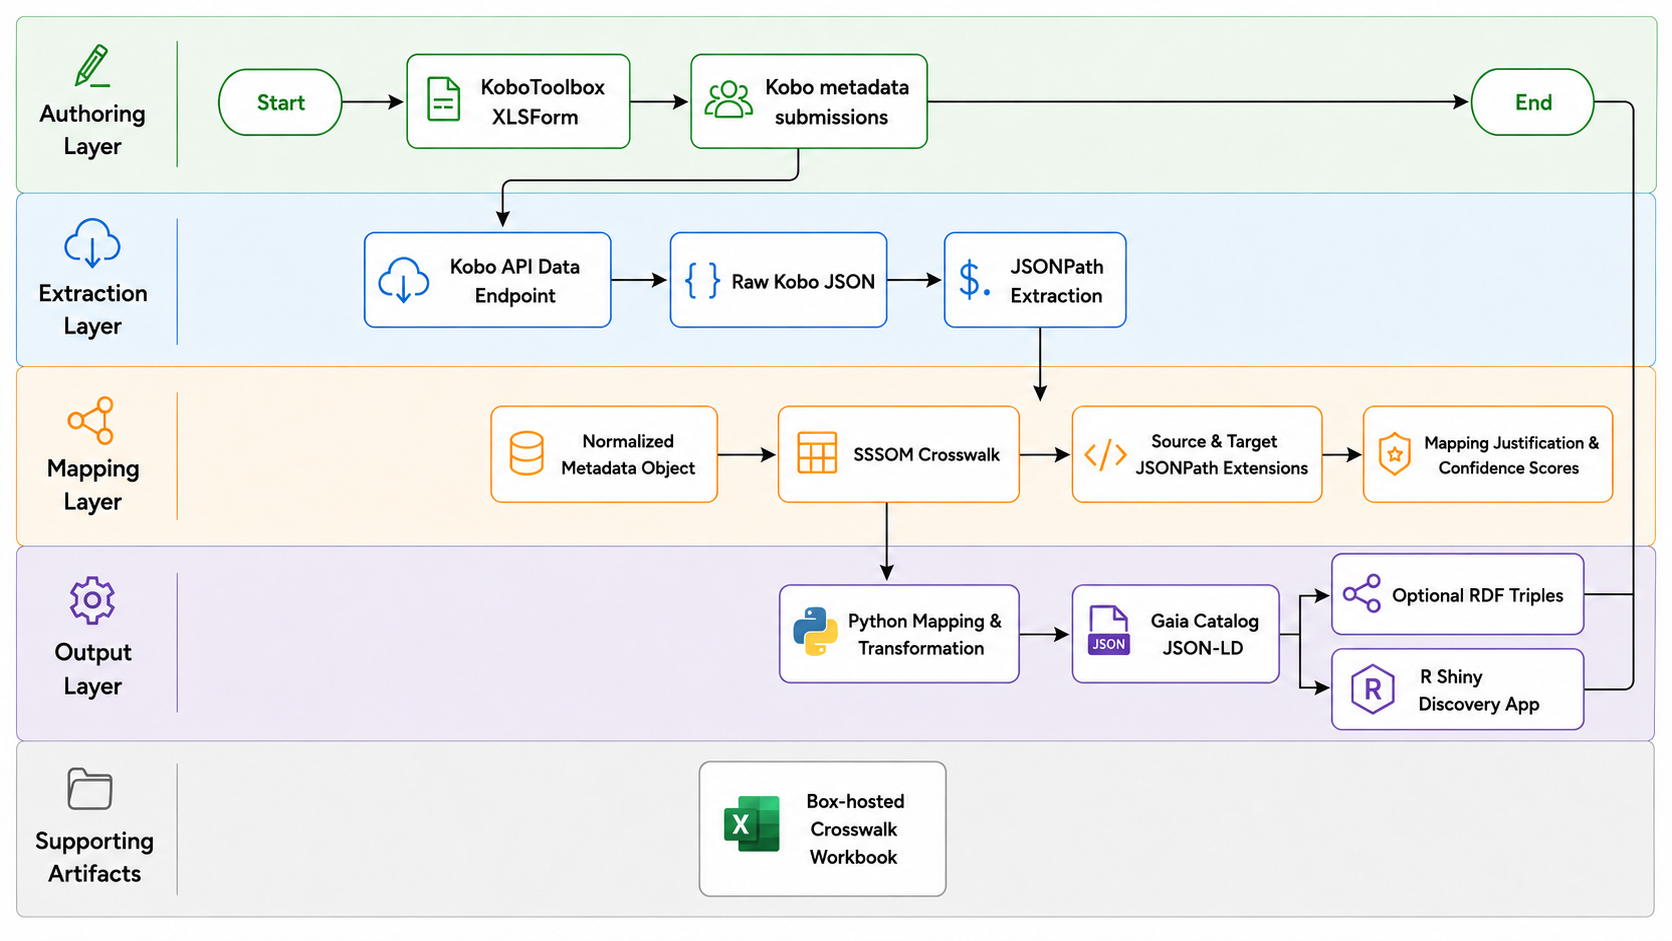
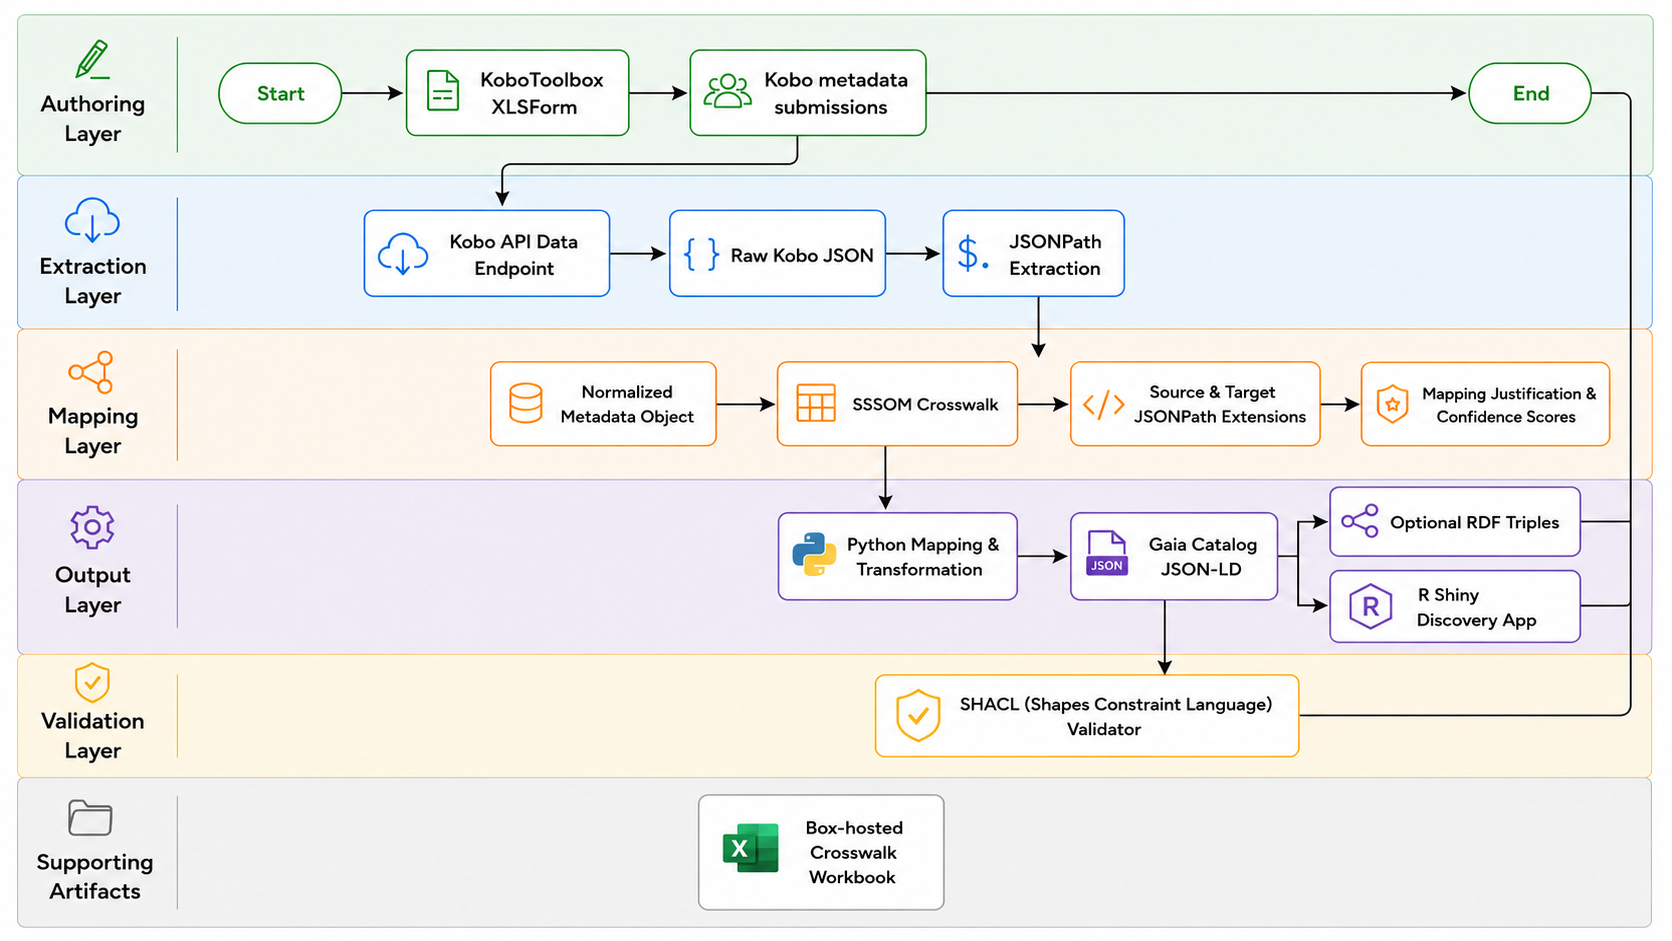
update to workflow

Changed region(s): [[0.0, 0.0, 0.9952, 0.9862]]

diff --git a/authoring/kobotoolbox/scripts/02_wrap_kobo_record.py b/authoring/kobotoolbox/scripts/02_wrap_kobo_record.py
@@ -1,23 +1,34 @@
-import json
 from pathlib import Path
+import json
 
-# Explicit paths on your machine
-RAW_FILE = Path("/Users/davidamadi/Documents/Projects/ohdsi-gis-metadata-template/authoring/kobotoolbox/scripts/kobo_output/record_136_raw.json")
-INPUT_FILE = Path("/Users/davidamadi/Documents/Projects/ohdsi-gis-metadata-template/authoring/kobotoolbox/scripts/record_136_input.json")
 
-print(f"Reading raw data from: {RAW_FILE}")
+def find_repo_root(start_path=None):
+    start_path = Path(start_path or Path.cwd()).resolve()
 
-# Read raw Kobo file
-with open(RAW_FILE, "r", encoding="utf-8") as f:
+    for path in [start_path, *start_path.parents]:
+        if (path / ".git").exists():
+            return path
+
+    raise RuntimeError("Could not find repo root.")
+
+
+REPO_ROOT = find_repo_root()
+KOBO_DIR = REPO_ROOT / "authoring" / "kobotoolbox"
+
+EXAMPLE_INPUT_DIR = KOBO_DIR / "examples" / "pm25_record_136" / "input"
+
+RAW_RECORD_FILE = EXAMPLE_INPUT_DIR / "record_136_raw.json"
+WRAPPED_RECORD_FILE = EXAMPLE_INPUT_DIR / "record_136_input.json"
+
+with open(RAW_RECORD_FILE, "r", encoding="utf-8") as f:
     raw_record = json.load(f)
 
-# Wrap it in the 'datasets' array format Doug's pipeline expects
-wrapped_data = {
+wrapped = {
     "datasets": [raw_record]
 }
 
-# Save it to the main scripts folder
-with open(INPUT_FILE, "w", encoding="utf-8") as f:
-    json.dump(wrapped_data, f, indent=2, ensure_ascii=False)
+with open(WRAPPED_RECORD_FILE, "w", encoding="utf-8") as f:
+    json.dump(wrapped, f, indent=2, ensure_ascii=False)
 
-print(f"Success! Created pipeline-ready file at: {INPUT_FILE}")
+print("Created wrapped input:")
+print(WRAPPED_RECORD_FILE)